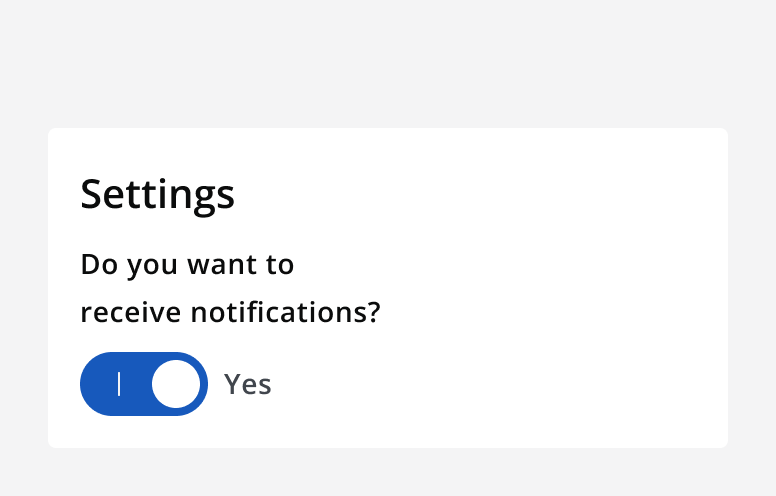
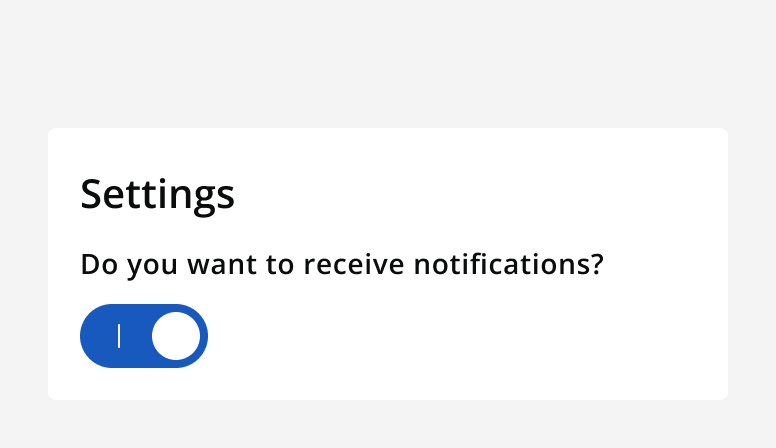
docs(root): update switch guidance to reflect new large size prop variant of switch component
. #1781

Changed region(s): [[0.0928, 0.3438, 0.7732, 0.8438]]

diff --git a/src/content/structured/components/inputs/switch/images/index.tsx b/src/content/structured/components/inputs/switch/images/index.tsx
@@ -1,12 +1,18 @@
-export { default as Fig1SwitchLight } from "./fig-1-make-sure-switch-changes-take-effect-immediately.png";
+export { default as Fig1SwitchLight } from "./fig-1-do-make-sure-switch-changes-take-effect-immediately.png";
 export { default as Fig2SwitchLight } from "./fig-2-dont-use-a-separate-trigger-to-make-switch-changes-take-effect.png";
 export { default as Fig3SwitchLight } from "./fig-3-dont-use-a-switch-for-yes-no-answers.png";
-export { default as Fig4SwitchLight } from "./fig-4-give-switches-clear-labels.png";
-export { default as Fig5SwitchLight } from "./fig-5-dont-give-switches-ambiguous-labels.png";
-export { default as Fig6SwitchLight } from "./fig-6-dont-mix-switches-with-icons-with-switches-without-icons.png";
-export { default as Fig1SwitchDark } from "./fig-1-make-sure-switch-changes-take-effect-immediately-dark.png";
+export { default as Fig4SwitchLight } from "./fig-4-dont-display-switches-with-different-sizes-together.png";
+export { default as Fig5SwitchLight } from "./fig-5-always-display-switches-as-a-stack.png";
+export { default as Fig6SwitchLight } from "./fig-6-dont-display-switches-in-a-row.png";
+export { default as Fig7SwitchLight } from "./fig-7-give-switches-clear-labels.png";
+export { default as Fig8SwitchLight } from "./fig-8-dont-give-switches-ambiguous-labels.png";
+export { default as Fig9SwitchLight } from "./fig-9-dont-mix-switches-with-icons-with-switches-without-icons.png";
+export { default as Fig1SwitchDark } from "./fig-1-do-make-sure-switch-changes-take-effect-immediately-dark.png";
 export { default as Fig2SwitchDark } from "./fig-2-dont-use-a-separate-trigger-to-make-switch-changes-take-effect-dark.png";
 export { default as Fig3SwitchDark } from "./fig-3-dont-use-a-switch-for-yes-no-answers-dark.png";
-export { default as Fig4SwitchDark } from "./fig-4-give-switches-clear-labels-dark.png";
-export { default as Fig5SwitchDark } from "./fig-5-dont-give-switches-ambiguous-labels-dark.png";
-export { default as Fig6SwitchDark } from "./fig-6-dont-mix-switches-with-icons-with-switches-without-icons-dark.png";
+export { default as Fig4SwitchDark } from "./fig-4-dont-display-switches-with-different-sizes-together-dark.png";
+export { default as Fig5SwitchDark } from "./fig-5-always-display-switches-as-a-stack-dark.png";
+export { default as Fig6SwitchDark } from "./fig-6-dont-display-switches-in-a-row-dark.png";
+export { default as Fig7SwitchDark } from "./fig-7-give-switches-clear-labels-dark.png";
+export { default as Fig8SwitchDark } from "./fig-8-dont-give-switches-ambiguous-labels-dark.png";
+export { default as Fig9SwitchDark } from "./fig-9-dont-mix-switches-with-icons-with-switches-without-icons-dark.png";
